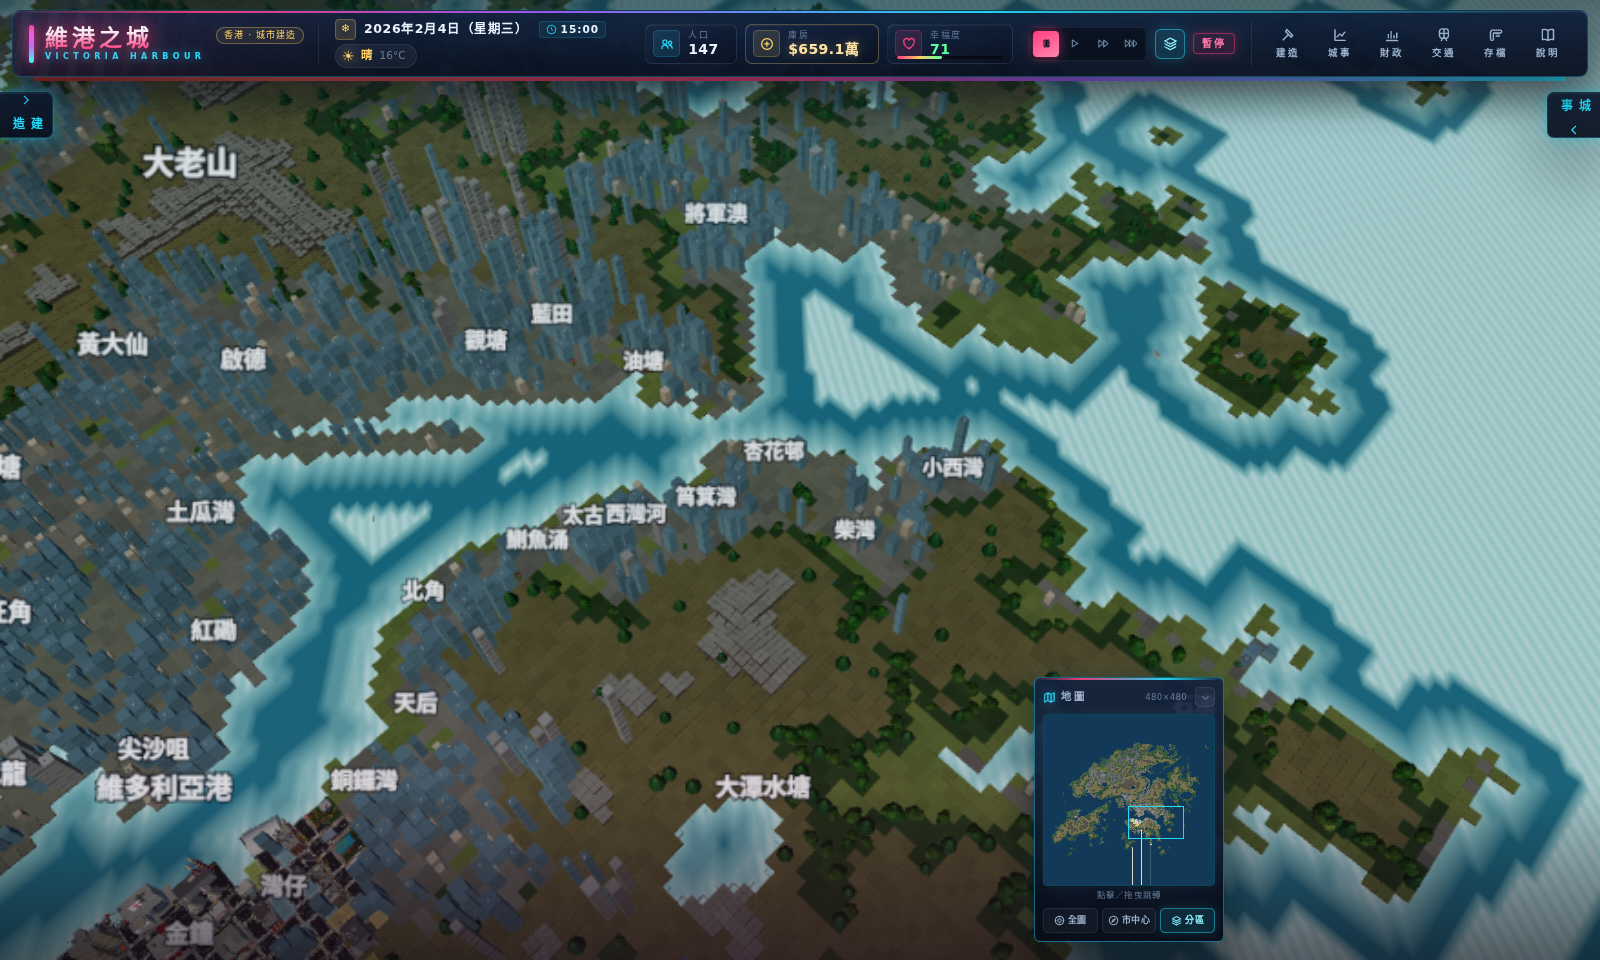
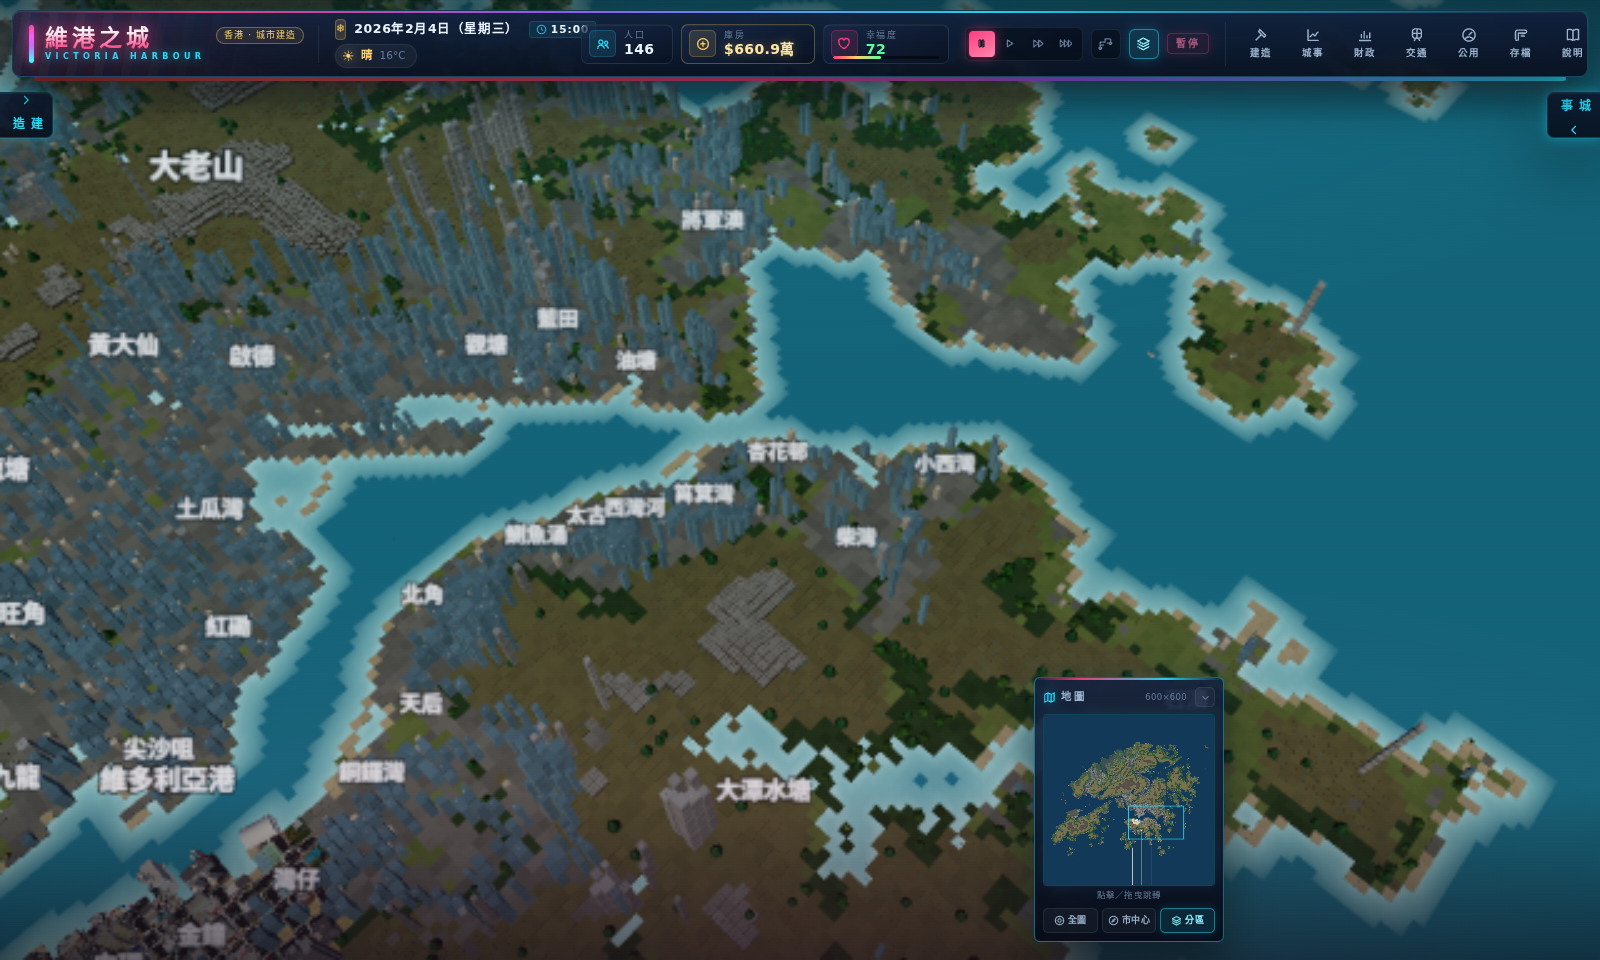
Round 5 final: 600 real-geo screenshots (underground/utility/transit/trade/reservoir), README; verified live Cloudflare 600 starter with utilities

diff --git a/README.md b/README.md
@@ -99,6 +99,26 @@ npm run preview    # 預覽生產建置：http://localhost:4273
 
 **新手五步（分區玩法）**：鋪馬路（已含行人路）→ 劃住宅區（Z）→ 劃商業區（C）／工業區（V）／農業區（N）→ 建公共設施（警署、消防局、學校、醫院、發電廠、水務）→ 看 RCI+F 需求條平衡城市、調稅率與擴展交通。
 
+## 截圖
+
+| **真實 600×600 全港 overview** | **東區：杏花邨／柴灣／小西灣** |
+|---|---|
+| ![地圖](docs/screenshots/map.png) | ![東區](docs/screenshots/east.png) |
+| **地下管網（U）** | **公用設施面板** |
+| ![地下管網](docs/screenshots/underground.png) | ![公用設施](docs/screenshots/utility.png) |
+| **巴士／小巴路線 overlay** | **交通／路線管理面板** |
+| ![路線](docs/screenshots/transit-route.png) | ![路線管理](docs/screenshots/transit-lines.png) |
+| **機場／貨櫃碼頭貿易面板** | **水塘（船灣淡水湖）** |
+| ![貿易](docs/screenshots/trade.png) | ![水塘](docs/screenshots/reservoir.png) |
+| **走進建築室內（機場離境大堂）** | **維港夜景** |
+| ![室內](docs/screenshots/interior.png) | ![夜景](docs/screenshots/night.png) |
+| **颱風襲港** | **寒潮雪景** |
+| ![颱風](docs/screenshots/typhoon.png) | ![雪景](docs/screenshots/snow.png) |
+| **由零開始：完全空地圖** | **開局：600×600 真實地理** |
+| ![空地圖](docs/screenshots/empty.png) | ![開局](docs/screenshots/start.png) |
+
+> 更多截圖（市區、分區、財務、暴雨、存檔、手機版）見 [`docs/screenshots/`](docs/screenshots/)。
+
 ## 開發
 
 ```bash
@@ -117,16 +137,13 @@ npm run verify:mobile  # 手機介面與觸控驗收
 ```
 src/
   core/      型別、香港建築／資源資料表（config）、狀態管理、存檔、開新局、格式化
-  world/     香港地圖程序化生成（維港、山脈、離島、填海、隧道、預設市中心）
-  sim/       模擬：時間天氣、市民、人口、物流、生產、交通、財政、統計、尋路、擺放
-  render/    three.js：城市視圖、地形、道路行人路、建築、市民、車輛、環境、室內、模型庫
-  ui/        DOM 介面：頂欄、建造、城事、財政、交通、存檔／教學、室內面板、手機版
   world/     真實地理數據（hk-map-data.generated.ts）＋世界生成
+  sim/       模擬：時間天氣、市民、人口、物流、生產、公用管網（utilities.ts）、
+             巴士小巴路線（transit.ts／vehicles.ts）、機場碼頭貿易（trade.ts）、財政、統計、尋路
+  render/    three.js：城市視圖、地形、道路、建築、市民、車輛、環境、地下管網、路線 overlay、室內、模型庫
+  ui/        DOM 介面：頂欄、建造、城事、財政、交通／路線、公用設施、貿易、存檔／教學、室內、手機版
   main.ts    組裝 actions、主迴圈、存檔排程
-tools/       真實地理數據離線生成腳本（DTM 5m／建築輪廓／水塘／土地利用）
-src/sim/utilities.ts  地下管網（水/污水/電力 BFS、容量、管道成本）
-src/sim/transit.ts／vehicles.ts  巴士小巴路線管理、路線車輛
-src/sim/trade.ts      機場／貨櫃碼頭貿易結算
+tools/       真實地理數據離線生成腳本（DTM 5m／建築輪廓／水塘／土地利用）＋tools/data
 docs/        研究、GDD、技術架構、多 Agent 開發報告、截圖
 tests/       vitest 單元與整合測試
 scripts/     截圖與自動驗收工具
